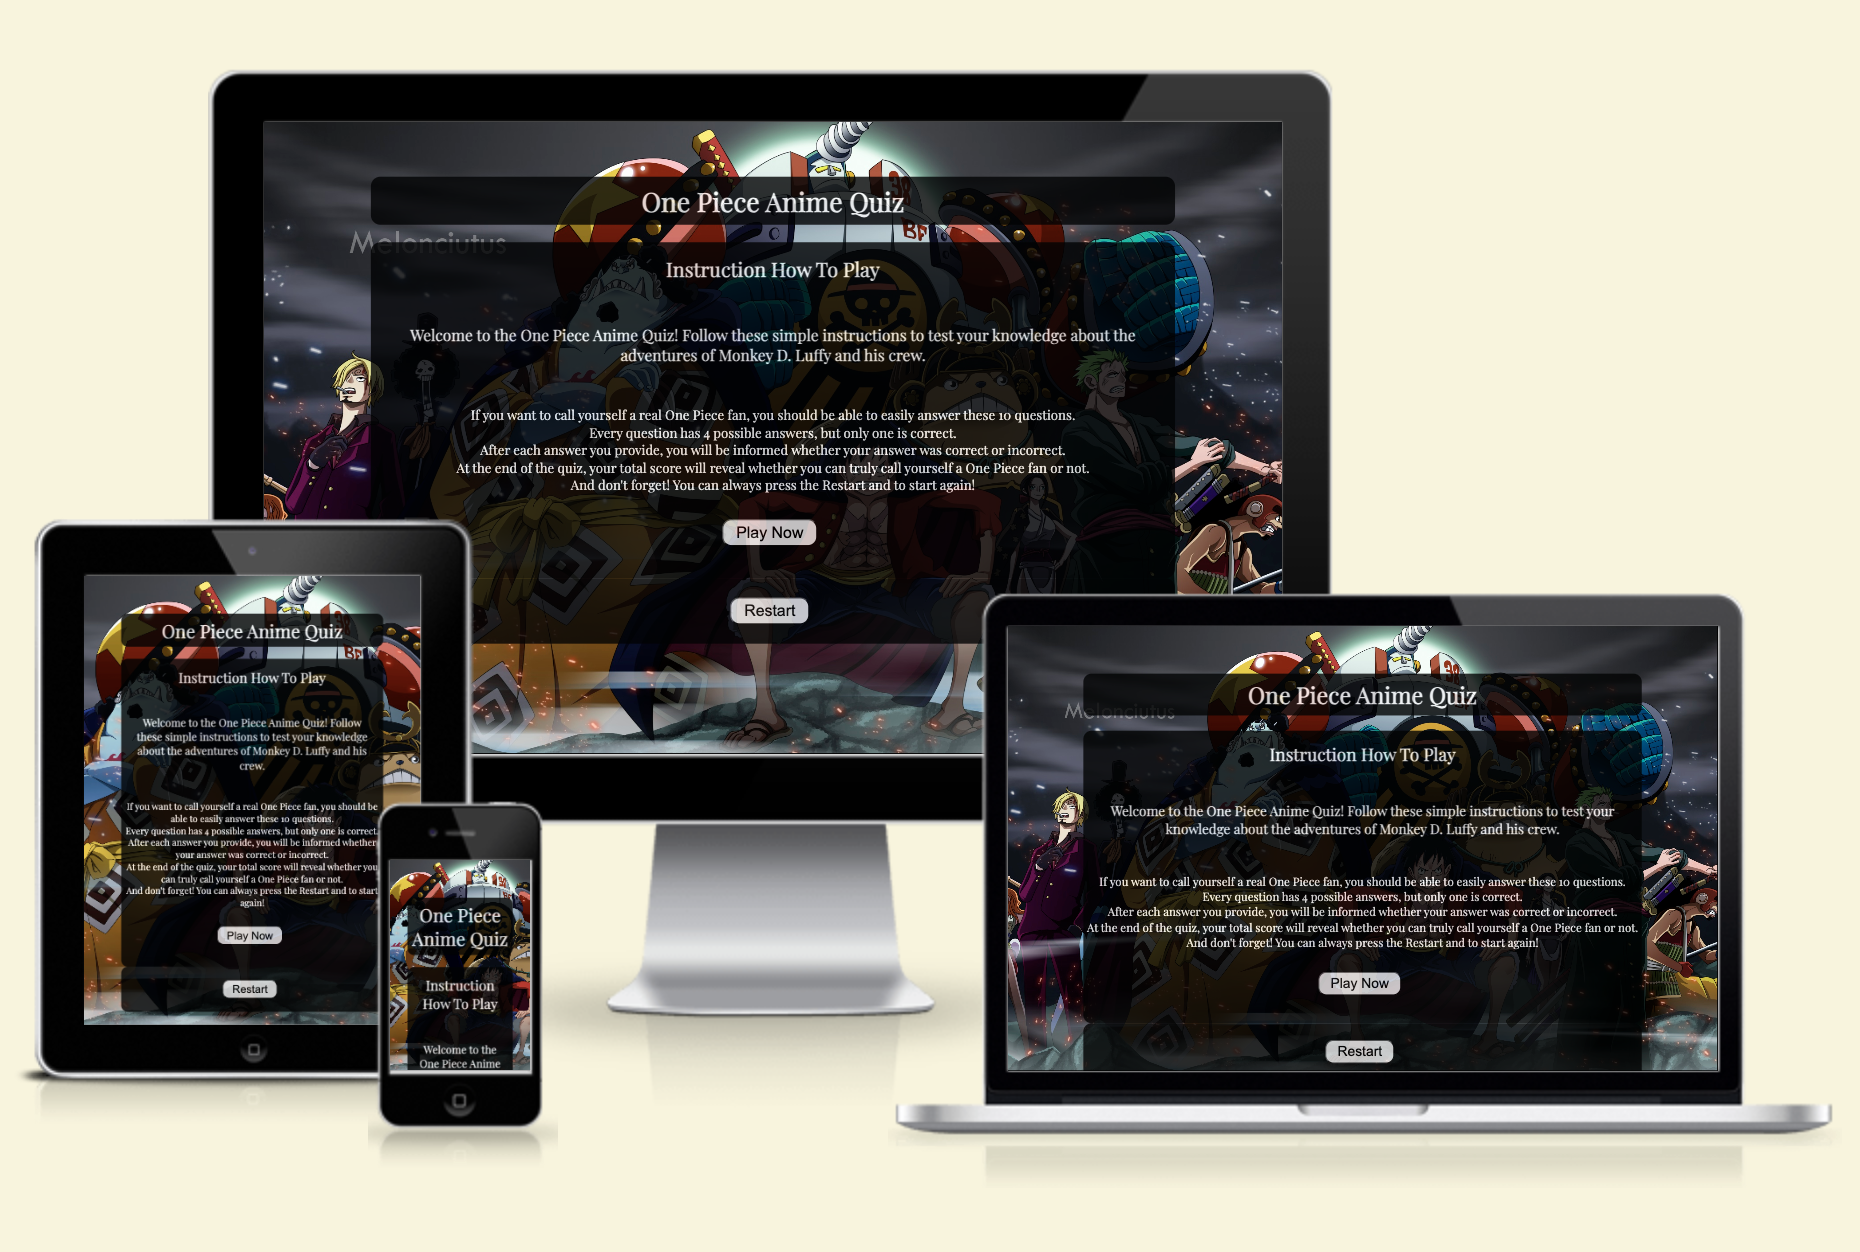
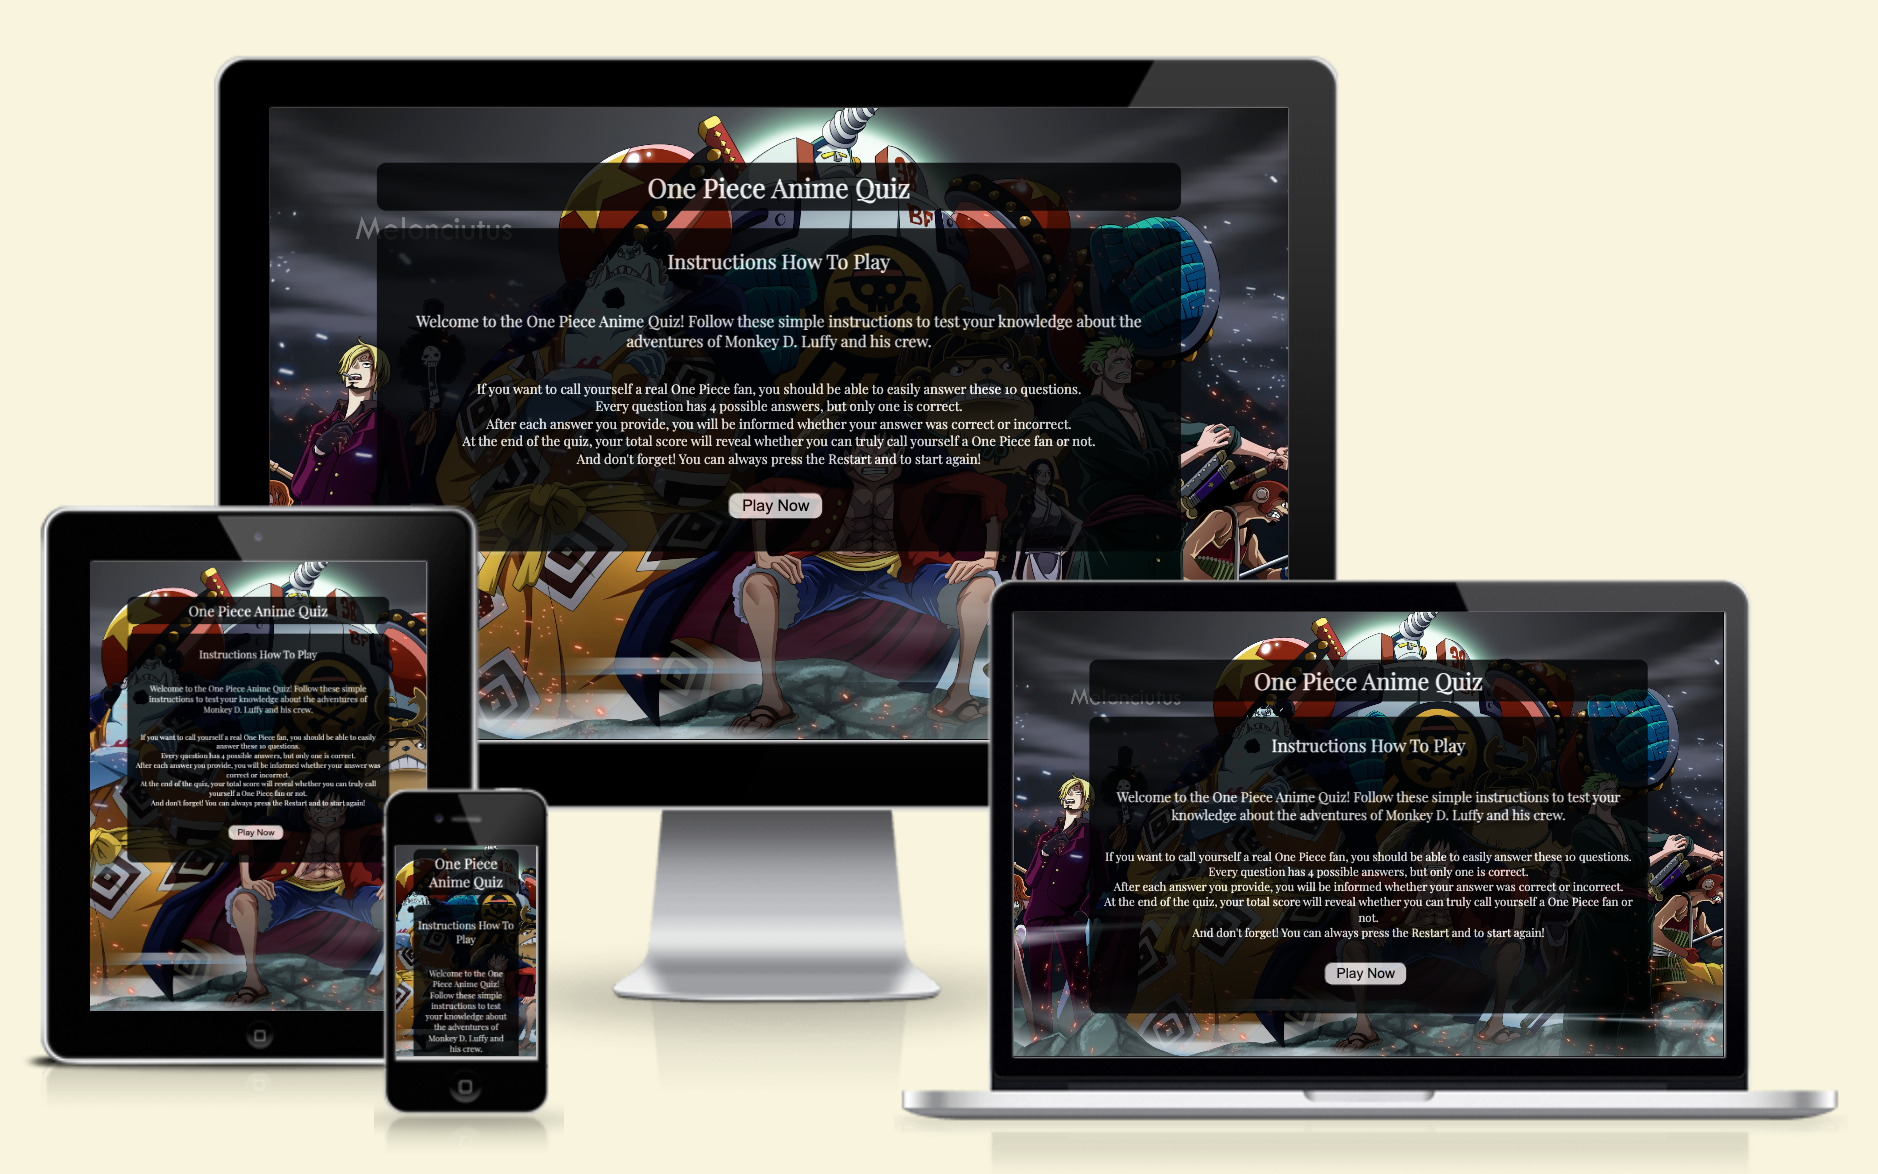
Fixing gramar mistakes in index.html and rapplacing one of the scrrenshot images in readme-screenshots

diff --git a/index.html b/index.html
@@ -38,17 +38,17 @@
                     Welcome to the One Piece Anime Quiz! Follow these simple instructions to test your knowledge about
                     the adventures of Monkey D. Luffy and his crew.</h3>
                 <p>
-                    If you want to call yourself a real One Piece fan, you should be able to easily answer these 10
-                    questions.
+                    If you want to call yourself a real One Piece fan, you should be able to answer these ten questions
+                    easily.
                     <br>
-                    Every question has 4 possible answers, but only one is correct.
+                    Every question has four possible answers, but only one is correct.
                     <br>
-                    After each answer you provide, you will be informed whether your answer was correct or incorrect.
+                    After each answer you provide, you will be informed whether your answer is correct or incorrect.
                     <br>
                     At the end of the quiz, your total score will reveal whether you can truly call yourself a One Piece
-                    fan or not.
+                    fan .
                     <br>
-                    And don't forget! You can always press the Restart and to start again!
+                    And don't forget! You can always press Restart and start again!
                 </p>
             </div>
             <button id="playButton">Play Now</button>
